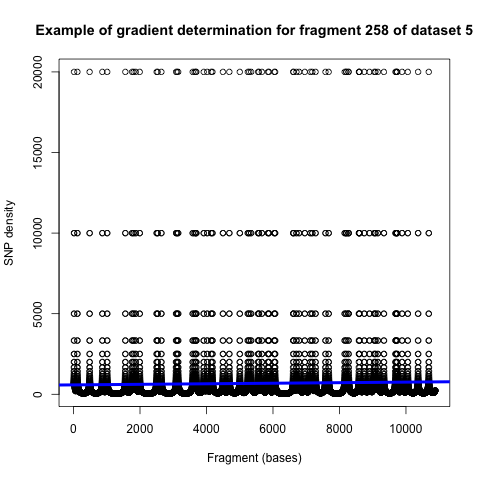
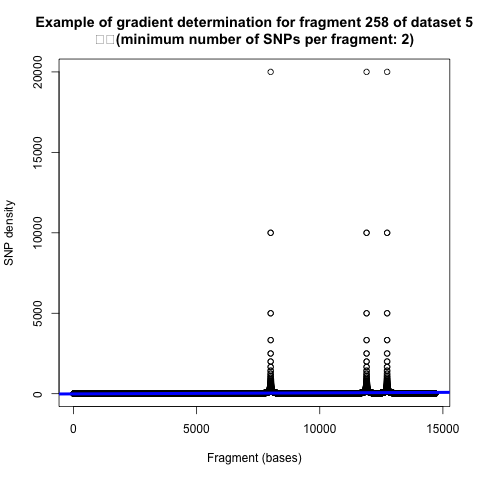
method for quick graphs

diff --git a/writeup/p4_rearrangement_methods.html b/writeup/p4_rearrangement_methods.html
@@ -1,0 +1,161 @@
+<!DOCTYPE html>
+<!-- saved from url=(0014)about:internet -->
+<html>
+<head>
+<meta http-equiv="Content-Type" content="text/html; charset=utf-8"/>
+
+<title>Rearrangement methods part 4</title>
+
+<style type="text/css">
+body, td {
+   font-family: sans-serif;
+   background-color: white;
+   font-size: 12px;
+   margin: 8px;
+}
+
+tt, code, pre {
+   font-family: 'DejaVu Sans Mono', 'Droid Sans Mono', 'Lucida Console', Consolas, Monaco, monospace;
+}
+
+h1 { 
+   font-size:2.2em; 
+}
+
+h2 { 
+   font-size:1.8em; 
+}
+
+h3 { 
+   font-size:1.4em; 
+}
+
+h4 { 
+   font-size:1.0em; 
+}
+
+h5 { 
+   font-size:0.9em; 
+}
+
+h6 { 
+   font-size:0.8em; 
+}
+
+a:visited {
+   color: rgb(50%, 0%, 50%);
+}
+
+pre {	
+   margin-top: 0;
+   max-width: 95%;
+   border: 1px solid #ccc;
+   white-space: pre-wrap;
+}
+
+pre code {
+   display: block; padding: 0.5em;
+}
+
+code.r, code.cpp {
+   background-color: #F8F8F8;
+}
+
+table, td, th {
+  border: none;
+}
+
+blockquote {
+   color:#666666;
+   margin:0;
+   padding-left: 1em;
+   border-left: 0.5em #EEE solid;
+}
+
+hr {
+   height: 0px;
+   border-bottom: none;
+   border-top-width: thin;
+   border-top-style: dotted;
+   border-top-color: #999999;
+}
+
+@media print {
+   * { 
+      background: transparent !important; 
+      color: black !important; 
+      filter:none !important; 
+      -ms-filter: none !important; 
+   }
+
+   body { 
+      font-size:12pt; 
+      max-width:100%; 
+   }
+       
+   a, a:visited { 
+      text-decoration: underline; 
+   }
+
+   hr { 
+      visibility: hidden;
+      page-break-before: always;
+   }
+
+   pre, blockquote { 
+      padding-right: 1em; 
+      page-break-inside: avoid; 
+   }
+
+   tr, img { 
+      page-break-inside: avoid; 
+   }
+
+   img { 
+      max-width: 100% !important; 
+   }
+
+   @page :left { 
+      margin: 15mm 20mm 15mm 10mm; 
+   }
+     
+   @page :right { 
+      margin: 15mm 10mm 15mm 20mm; 
+   }
+
+   p, h2, h3 { 
+      orphans: 3; widows: 3; 
+   }
+
+   h2, h3 { 
+      page-break-after: avoid; 
+   }
+}
+
+</style>
+
+
+
+
+
+</head>
+
+<body>
+<h1>Rearrangement methods part 4</h1>
+
+<p><img src="https://github.com/edwardchalstrey1/fragmented_genome_with_snps/blob/master/arabidopsis_datasets/dataset5/figures/skew_scatter_abs_2_10K.png?raw=true" alt="Image"/>
+<a href="https://github.com/edwardchalstrey1/fragmented_genome_with_snps/blob/master/arabidopsis_datasets/dataset5/figures/skew_scatter_abs_2_10K.png">Figure 1</a></p>
+
+<p><img src="https://github.com/edwardchalstrey1/fragmented_genome_with_snps/blob/master/arabidopsis_datasets/dataset5/figures/skew_scatter_grad_2_10K.png?raw=true" alt="Image"/>
+<a href="https://github.com/edwardchalstrey1/fragmented_genome_with_snps/blob/master/arabidopsis_datasets/dataset5/figures/skew_scatter_grad_2_10K.png">Figure 2</a></p>
+
+<p><img src="https://github.com/edwardchalstrey1/fragmented_genome_with_snps/blob/master/arabidopsis_datasets/dataset5/figures/example_gradient_f258.png?raw=true" alt="Image"/>
+<a href="https://github.com/edwardchalstrey1/fragmented_genome_with_snps/blob/master/arabidopsis_datasets/dataset5/figures/example_gradient_f258.png">Figure 3</a></p>
+
+<p><img src="https://github.com/edwardchalstrey1/fragmented_genome_with_snps/blob/master/arabidopsis_datasets/dataset5/figures/example_gradient_f681.png?raw=true" alt="Image"/>
+<a href="https://github.com/edwardchalstrey1/fragmented_genome_with_snps/blob/master/arabidopsis_datasets/dataset5/figures/example_gradient_f681.png">Figure 4</a></p>
+
+</body>
+
+</html>
+

diff --git a/skew_scatta.rb b/skew_scatta.rb
@@ -87,43 +87,43 @@ def scatta_dem (gradients, nu_ids, filename, grad_string, min_snps_string)
 	myr.quit
 end
 
-def example (frag_num, xs, ys)
-	x = xs[frag_num-1]
-	y = ys[frag_num-1]
+def example (frag_num, xs, ys, nu_ids, min_snps)
+	min_snps_string =  min_snps.to_s
+	z = nu_ids.index(frag_num)
+	x = xs[z]
+	y = ys[z]
 	frag_num_string = frag_num.to_s
 	myr = RinRuby.new(echo = false)
 	myr.assign "x", x
 	myr.assign "y", y
 	myr.assign "frag_num_string", frag_num_string
+	myr.assign "min_snps_string", min_snps_string
 	myr.eval 'source("~/fragmented_genome_with_snps/skew_scatter.R")'
-	myr.eval 'example(frag_num_string, x, y)'
+	myr.eval 'example(frag_num_string, x, y, min_snps_string)'
 	myr.quit
 end
+
+def skew_scatta (min_snps, n_div, ex1, ex2, ex3)
+	min_snps_string =  min_snps.to_s
+	n_div_string = n_div.to_s
+	gixs = get_gradients(min_snps, n_div)
+	gradients = gixs[0]
+	abs_gradients = gixs[4]
+	nu_ids = gixs[1]
+	xs = gixs[2]
+	ys = gixs[3]
+	fng = "grad_"+min_snps_string+"_"+n_div_string
+	fna = "abs_"+min_snps_string+"_"+n_div_string
+	scatta_dem(gradients, nu_ids, fng, "gradient", min_snps_string)
+	scatta_dem(abs_gradients, nu_ids, fna, "absolute gradient", min_snps_string)
+	example(ex1, xs, ys, nu_ids, min_snps)
+	example(ex2, xs, ys, nu_ids, min_snps)
+	example(ex3, xs, ys, nu_ids, min_snps)
+end
+
 Signal.trap("PIPE", "IGNORE")
-gixs = get_gradients(2, 10000)
-gradients = gixs[0]
-abs_gradients = gixs[4]
-nu_ids = gixs[1]
-xs = gixs[2]
-ys = gixs[3]
-scatta_dem(gradients, nu_ids, "grad_2_10K", "gradient", "2")
-scatta_dem(abs_gradients, nu_ids, "abs_2_10K", "absolute gradient", "2")
-example(258, xs, ys)
-example(681, xs, ys)
-example(974, xs, ys)
 
-#snp_pos = []
-#File.open("arabidopsis_datasets/dataset5/skew_scatter/snps230.txt").each {|line| snp_pos << line.to_i}
-#lengths = []
-#File.open("arabidopsis_datasets/dataset5/skew_scatter/ex_fasta_lengths.txt").each {|line| lengths << line.to_i}
-#l = lengths[229]
-#d = (density(snp_pos, l, 10000))
-#myr = RinRuby.new(echo = false)
-#myr.assign "d", d
-#myr.eval "s <- length(d)"
-#s = myr.pull "s"
-#puts s
-
+skew_scatta(2, 10000, 258, 681, 987)
 
 
 
